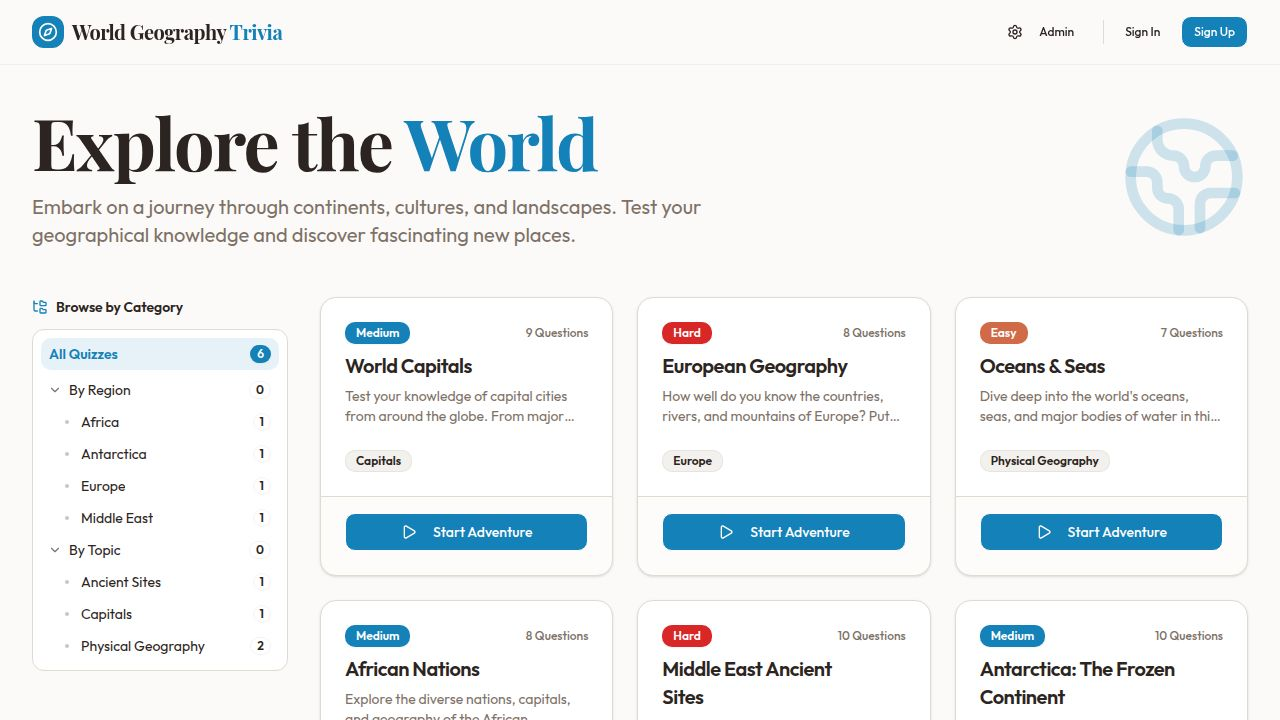
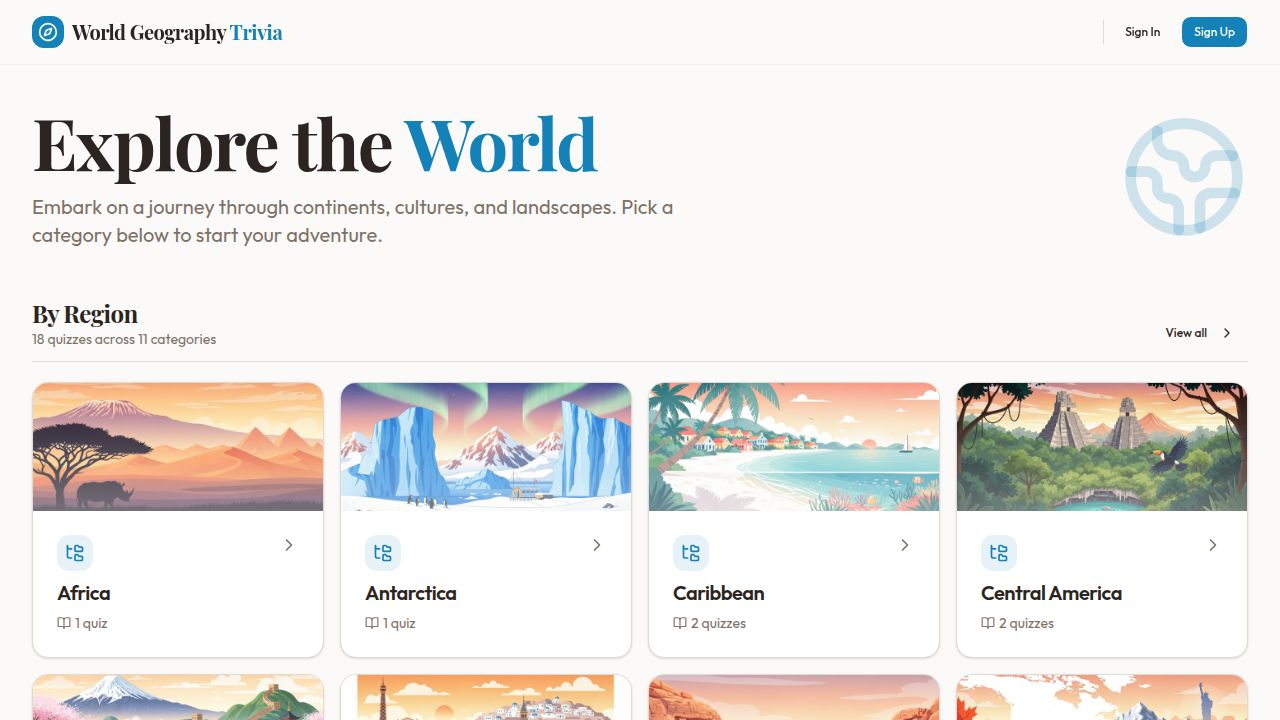
Lock down admin access (Task #1)
Server (security boundary):
- Added requireAdmin middleware reading ADMIN_USER_IDS env var
  (comma-separated Clerk user IDs). Returns 401 if unauthenticated,
  403 if signed in but not on the allow-list. Fails closed when the
  env var is unset or empty.
- Applied requireAdmin to every write endpoint:
  POST/PATCH/DELETE on /quizzes, /questions, /categories.
- Read endpoints (list/get) remain public — no behaviour change for
  visitors taking quizzes.
- Added GET /api/me returning {userId, isAdmin} for the client guard
  to consume. Works for signed-out users (returns nulls/false).

Client (UX guard, not a security boundary):
- New AdminGuard component wraps all /admin/* routes. States:
  * loading spinner
  * error card if /api/me fails
  * "Sign in required" card for signed-out visitors
  * "Not yet an admin" bootstrap card showing the user's Clerk ID
    in a copy-friendly monospace box, with instructions to add it
    to ADMIN_USER_IDS — solves the bootstrap problem.
  * renders children if isAdmin
- Navbar Admin icon now hidden unless useGetMe().isAdmin is true.

Plumbing:
- Added /me endpoint + Me schema to OpenAPI spec; regenerated hooks
  and Zod schemas.
- Updated replit.md with an Admin Access section explaining the
  ADMIN_USER_IDS secret and bootstrap flow.

Verification:
- curl POST /api/quizzes (no auth) -> 401 Unauthorized.
- curl /api/me (no auth) -> {"userId":null,"isAdmin":false}.
- Screenshots confirm: home navbar has no Admin link; /admin shows
[…]

diff --git a/artifacts/geo-quiz/src/components/AdminGuard.tsx b/artifacts/geo-quiz/src/components/AdminGuard.tsx
@@ -1,0 +1,110 @@
+import type { ReactNode } from "react";
+import { Link } from "wouter";
+import { Loader2, ShieldAlert, ShieldCheck } from "lucide-react";
+import { useGetMe } from "@workspace/api-client-react";
+import { Card, CardContent, CardDescription, CardHeader, CardTitle } from "@/components/ui/card";
+import { Button } from "@/components/ui/button";
+
+export function AdminGuard({ children }: { children: ReactNode }) {
+  const { data, isLoading, isError } = useGetMe();
+
+  if (isLoading) {
+    return (
+      <div className="flex py-20 items-center justify-center">
+        <Loader2 className="h-8 w-8 animate-spin text-muted-foreground" />
+      </div>
+    );
+  }
+
+  if (isError || !data) {
+    return (
+      <div className="container max-w-xl py-20">
+        <Card>
+          <CardHeader>
+            <CardTitle>Couldn't verify access</CardTitle>
+            <CardDescription>
+              We couldn't reach the server to check your permissions. Please refresh and try again.
+            </CardDescription>
+          </CardHeader>
+        </Card>
+      </div>
+    );
+  }
+
+  if (data.isAdmin) {
+    return <>{children}</>;
+  }
+
+  if (!data.userId) {
+    return (
+      <div className="container max-w-xl py-20">
+        <Card>
+          <CardHeader>
+            <div className="flex items-center gap-3">
+              <div className="bg-muted text-muted-foreground p-2 rounded-lg">
+                <ShieldAlert className="h-6 w-6" />
+              </div>
+              <div>
+                <CardTitle>Sign in required</CardTitle>
+                <CardDescription>The admin area is restricted to authorized accounts.</CardDescription>
+              </div>
+            </div>
+          </CardHeader>
+          <CardContent className="flex gap-2">
+            <Button asChild>
+              <Link href="/sign-in">Sign in</Link>
+            </Button>
+            <Button variant="outline" asChild>
+              <Link href="/">Back to home</Link>
+            </Button>
+          </CardContent>
+        </Card>
+      </div>
+    );
+  }
+
+  return (
+    <div className="container max-w-2xl py-16">
+      <Card>
+        <CardHeader>
+          <div className="flex items-center gap-3">
+            <div className="bg-primary/10 text-primary p-2 rounded-lg">
+              <ShieldCheck className="h-6 w-6" />
+            </div>
+            <div>
+              <CardTitle>Not yet an admin</CardTitle>
+              <CardDescription>
+                You're signed in, but your account isn't on the admin allow-list.
+              </CardDescription>
+            </div>
+          </div>
+        </CardHeader>
+        <CardContent className="space-y-4">
+          <p className="text-sm text-muted-foreground">
+            To grant yourself admin access, add your Clerk user ID below to the{" "}
+            <code className="bg-muted px-1.5 py-0.5 rounded text-foreground font-mono text-xs">
+              ADMIN_USER_IDS
+            </code>{" "}
+            environment variable (comma-separated for multiple admins). Set it in your Replit
+            workspace Secrets pane so it's available in both development and the deployed app, then
+            refresh this page.
+          </p>
+          <div>
+            <div className="text-xs font-semibold uppercase tracking-wide text-muted-foreground mb-1">
+              Your Clerk user ID
+            </div>
+            <div className="bg-muted rounded-md p-3 font-mono text-sm break-all select-all">
+              {data.userId}
+            </div>
+          </div>
+          <div className="flex gap-2 pt-2">
+            <Button onClick={() => window.location.reload()}>I've added it — refresh</Button>
+            <Button variant="outline" asChild>
+              <Link href="/">Back to home</Link>
+            </Button>
+          </div>
+        </CardContent>
+      </Card>
+    </div>
+  );
+}

diff --git a/artifacts/api-server/src/middlewares/requireAdmin.ts b/artifacts/api-server/src/middlewares/requireAdmin.ts
@@ -1,0 +1,35 @@
+import type { Request, Response, NextFunction, RequestHandler } from "express";
+import { getAuth } from "@clerk/express";
+
+export function getAdminUserIds(): Set<string> {
+  const raw = process.env.ADMIN_USER_IDS ?? "";
+  return new Set(
+    raw
+      .split(",")
+      .map((s) => s.trim())
+      .filter((s) => s.length > 0),
+  );
+}
+
+export function isAdminUserId(userId: string | null | undefined): boolean {
+  if (!userId) return false;
+  return getAdminUserIds().has(userId);
+}
+
+export const requireAdmin: RequestHandler = (
+  req: Request,
+  res: Response,
+  next: NextFunction,
+): void => {
+  const auth = getAuth(req);
+  const userId = auth?.userId;
+  if (!userId) {
+    res.status(401).json({ error: "Unauthorized" });
+    return;
+  }
+  if (!isAdminUserId(userId)) {
+    res.status(403).json({ error: "Forbidden" });
+    return;
+  }
+  next();
+};

diff --git a/artifacts/geo-quiz/src/App.tsx b/artifacts/geo-quiz/src/App.tsx
@@ -17,6 +17,7 @@ import AdminCreateQuiz from "@/pages/admin/quizzes/new";
 import AdminEditQuiz from "@/pages/admin/quizzes/[id]";
 import AdminCreateQuestion from "@/pages/admin/quizzes/[id]/questions/new";
 import { Navbar } from "@/components/layout/Navbar";
+import { AdminGuard } from "@/components/AdminGuard";
 
 import SignInPage from "@/pages/sign-in";
 import SignUpPage from "@/pages/sign-up";
@@ -148,11 +149,21 @@ function ClerkProviderWithRoutes() {
               <Route path="/quiz/:id" component={QuizPage} />
               <Route path="/quiz/:id/results" component={QuizResultsPage} />
               
-              <Route path="/admin" component={AdminDashboard} />
-              <Route path="/admin/categories" component={AdminCategories} />
-              <Route path="/admin/quizzes/new" component={AdminCreateQuiz} />
-              <Route path="/admin/quizzes/:id" component={AdminEditQuiz} />
-              <Route path="/admin/quizzes/:id/questions/new" component={AdminCreateQuestion} />
+              <Route path="/admin">
+                <AdminGuard><AdminDashboard /></AdminGuard>
+              </Route>
+              <Route path="/admin/categories">
+                <AdminGuard><AdminCategories /></AdminGuard>
+              </Route>
+              <Route path="/admin/quizzes/new">
+                <AdminGuard><AdminCreateQuiz /></AdminGuard>
+              </Route>
+              <Route path="/admin/quizzes/:id">
+                <AdminGuard><AdminEditQuiz /></AdminGuard>
+              </Route>
+              <Route path="/admin/quizzes/:id/questions/new">
+                <AdminGuard><AdminCreateQuestion /></AdminGuard>
+              </Route>
               
               <Route component={NotFound} />
             </Switch>

diff --git a/artifacts/api-server/src/routes/me.ts b/artifacts/api-server/src/routes/me.ts
@@ -1,0 +1,16 @@
+import { Router, type IRouter } from "express";
+import { getAuth } from "@clerk/express";
+import { isAdminUserId } from "../middlewares/requireAdmin";
+
+const router: IRouter = Router();
+
+router.get("/me", (req, res): void => {
+  const auth = getAuth(req);
+  const userId = auth?.userId ?? null;
+  res.json({
+    userId,
+    isAdmin: isAdminUserId(userId),
+  });
+});
+
+export default router;

diff --git a/artifacts/geo-quiz/src/components/layout/Navbar.tsx b/artifacts/geo-quiz/src/components/layout/Navbar.tsx
@@ -2,12 +2,15 @@ import { Link, useLocation } from "wouter";
 import { Compass, Settings, LogOut, User as UserIcon } from "lucide-react";
 import { Button } from "@/components/ui/button";
 import { Show, useUser, useClerk } from "@clerk/react";
+import { useGetMe } from "@workspace/api-client-react";
 
 export function Navbar() {
   const [location] = useLocation();
-  const isAdmin = location.startsWith("/admin");
+  const onAdminPage = location.startsWith("/admin");
   const { user } = useUser();
   const { signOut } = useClerk();
+  const { data: me } = useGetMe();
+  const isAdmin = me?.isAdmin ?? false;
 
   return (
     <header className="sticky top-0 z-50 w-full border-b border-border/40 bg-background/95 backdrop-blur supports-[backdrop-filter]:bg-background/60">
@@ -22,18 +25,18 @@ export function Navbar() {
         </Link>
         
         <nav className="flex items-center space-x-2">
-          {isAdmin ? (
+          {onAdminPage ? (
             <Button variant="ghost" asChild>
               <Link href="/">Back to Quizzes</Link>
             </Button>
-          ) : (
+          ) : isAdmin ? (
             <Button variant="ghost" size="sm" asChild>
               <Link href="/admin">
                 <Settings className="mr-2 h-4 w-4" />
                 Admin
               </Link>
             </Button>
-          )}
+          ) : null}
 
           <div className="w-px h-6 bg-border mx-2" />
 

diff --git a/artifacts/api-server/src/routes/categories.ts b/artifacts/api-server/src/routes/categories.ts
@@ -7,6 +7,7 @@ import {
   UpdateCategoryParams,
   DeleteCategoryParams,
 } from "@workspace/api-zod";
+import { requireAdmin } from "../middlewares/requireAdmin";
 
 const router: IRouter = Router();
 
@@ -174,7 +175,7 @@ router.get("/categories/by-slug/:slug", async (req, res): Promise<void> => {
   });
 });
 
-router.post("/categories", async (req, res): Promise<void> => {
+router.post("/categories", requireAdmin, async (req, res): Promise<void> => {
   const parsed = CreateCategoryBody.safeParse(req.body);
   if (!parsed.success) {
     res.status(400).json({ error: parsed.error.message });
@@ -201,7 +202,7 @@ router.post("/categories", async (req, res): Promise<void> => {
   res.status(201).json(serializeCategory(created));
 });
 
-router.patch("/categories/:id", async (req, res): Promise<void> => {
+router.patch("/categories/:id", requireAdmin, async (req, res): Promise<void> => {
   const rawId = Array.isArray(req.params.id) ? req.params.id[0] : req.params.id;
   const params = UpdateCategoryParams.safeParse({ id: rawId });
   if (!params.success) {
@@ -264,7 +265,7 @@ router.patch("/categories/:id", async (req, res): Promise<void> => {
   res.json(serializeCategory(updated));
 });
 
-router.delete("/categories/:id", async (req, res): Promise<void> => {
+router.delete("/categories/:id", requireAdmin, async (req, res): Promise<void> => {
   const rawId = Array.isArray(req.params.id) ? req.params.id[0] : req.params.id;
   const params = DeleteCategoryParams.safeParse({ id: rawId });
   if (!params.success) {

diff --git a/artifacts/api-server/src/routes/questions.ts b/artifacts/api-server/src/routes/questions.ts
@@ -10,6 +10,7 @@ import {
   DeleteQuestionParams,
   ListQuestionsParams,
 } from "@workspace/api-zod";
+import { requireAdmin } from "../middlewares/requireAdmin";
 
 const router: IRouter = Router();
 
@@ -44,7 +45,7 @@ router.get("/quizzes/:id/questions", async (req, res): Promise<void> => {
   );
 });
 
-router.post("/quizzes/:id/questions", async (req, res): Promise<void> => {
+router.post("/quizzes/:id/questions", requireAdmin, async (req, res): Promise<void> => {
   const rawId = Array.isArray(req.params.id) ? req.params.id[0] : req.params.id;
   const params = CreateQuestionParams.safeParse({ id: rawId });
   if (!params.success) {
@@ -117,7 +118,7 @@ router.get("/questions/:id", async (req, res): Promise<void> => {
   });
 });
 
-router.patch("/questions/:id", async (req, res): Promise<void> => {
+router.patch("/questions/:id", requireAdmin, async (req, res): Promise<void> => {
   const rawId = Array.isArray(req.params.id) ? req.params.id[0] : req.params.id;
   const params = UpdateQuestionParams.safeParse({ id: rawId });
   if (!params.success) {
@@ -157,7 +158,7 @@ router.patch("/questions/:id", async (req, res): Promise<void> => {
   });
 });
 
-router.delete("/questions/:id", async (req, res): Promise<void> => {
+router.delete("/questions/:id", requireAdmin, async (req, res): Promise<void> => {
   const rawId = Array.isArray(req.params.id) ? req.params.id[0] : req.params.id;
   const params = DeleteQuestionParams.safeParse({ id: rawId });
   if (!params.success) {

diff --git a/artifacts/api-server/src/routes/quizzes.ts b/artifacts/api-server/src/routes/quizzes.ts
@@ -16,6 +16,7 @@ import {
   DeleteQuizParams,
   GetQuizStatsParams,
 } from "@workspace/api-zod";
+import { requireAdmin } from "../middlewares/requireAdmin";
 
 const router: IRouter = Router();
 
@@ -98,7 +99,7 @@ router.get("/quizzes", async (_req, res): Promise<void> => {
   res.json(result);
 });
 
-router.post("/quizzes", async (req, res): Promise<void> => {
+router.post("/quizzes", requireAdmin, async (req, res): Promise<void> => {
   const parsed = CreateQuizBody.safeParse(req.body);
   if (!parsed.success) {
     res.status(400).json({ error: parsed.error.message });
@@ -171,7 +172,7 @@ router.get("/quizzes/:id", async (req, res): Promise<void> => {
   });
 });
 
-router.patch("/quizzes/:id", async (req, res): Promise<void> => {
+router.patch("/quizzes/:id", requireAdmin, async (req, res): Promise<void> => {
   const rawId = Array.isArray(req.params.id) ? req.params.id[0] : req.params.id;
   const params = UpdateQuizParams.safeParse({ id: rawId });
   if (!params.success) {
@@ -218,7 +219,7 @@ router.patch("/quizzes/:id", async (req, res): Promise<void> => {
   });
 });
 
-router.delete("/quizzes/:id", async (req, res): Promise<void> => {
+router.delete("/quizzes/:id", requireAdmin, async (req, res): Promise<void> => {
   const rawId = Array.isArray(req.params.id) ? req.params.id[0] : req.params.id;
   const params = DeleteQuizParams.safeParse({ id: rawId });
   if (!params.success) {

diff --git a/artifacts/api-server/src/routes/index.ts b/artifacts/api-server/src/routes/index.ts
@@ -5,10 +5,12 @@ import questionsRouter from "./questions";
 import quizAttemptsRouter from "./quiz-attempts";
 import userProgressRouter from "./user-progress";
 import categoriesRouter from "./categories";
+import meRouter from "./me";
 
 const router: IRouter = Router();
 
 router.use(healthRouter);
+router.use(meRouter);
 router.use(categoriesRouter);
 router.use(quizzesRouter);
 router.use(questionsRouter);

diff --git a/replit.md b/replit.md
@@ -79,6 +79,14 @@ The home page is a category browser only (no quizzes shown directly) — it grou
 - `CLERK_SECRET_KEY`, `CLERK_PUBLISHABLE_KEY`, `VITE_CLERK_PUBLISHABLE_KEY` — Clerk auth keys
 - `DATABASE_URL`, `PGHOST`, `PGPORT`, `PGUSER`, `PGPASSWORD`, `PGDATABASE` — PostgreSQL
 
+## Admin Access
+
+- Admin write endpoints (`POST/PATCH/DELETE` on quizzes, questions, categories) and the `/admin/*` UI are restricted via the `requireAdmin` middleware. It rejects unauthenticated requests with `401` and signed-in non-admins with `403`.
+- Admin identity is configured via the `ADMIN_USER_IDS` env var: a comma-separated list of Clerk user IDs. If unset/empty, no one is an admin (fail-closed).
+- Set `ADMIN_USER_IDS` in the workspace Secrets pane so it's available in both development and the deployed app.
+- Bootstrap UX: visit `/admin` while signed in but not yet an admin — the page displays your Clerk user ID so you can copy it into `ADMIN_USER_IDS`, then refresh.
+- The client uses `GET /api/me` (`useGetMe`) to decide whether to show the Admin nav link and to gate `/admin/*` routes. The server is the security boundary; the client guard is UX only.
+
 ## Seeded Data
 
 4 quizzes with 8-9 questions each: